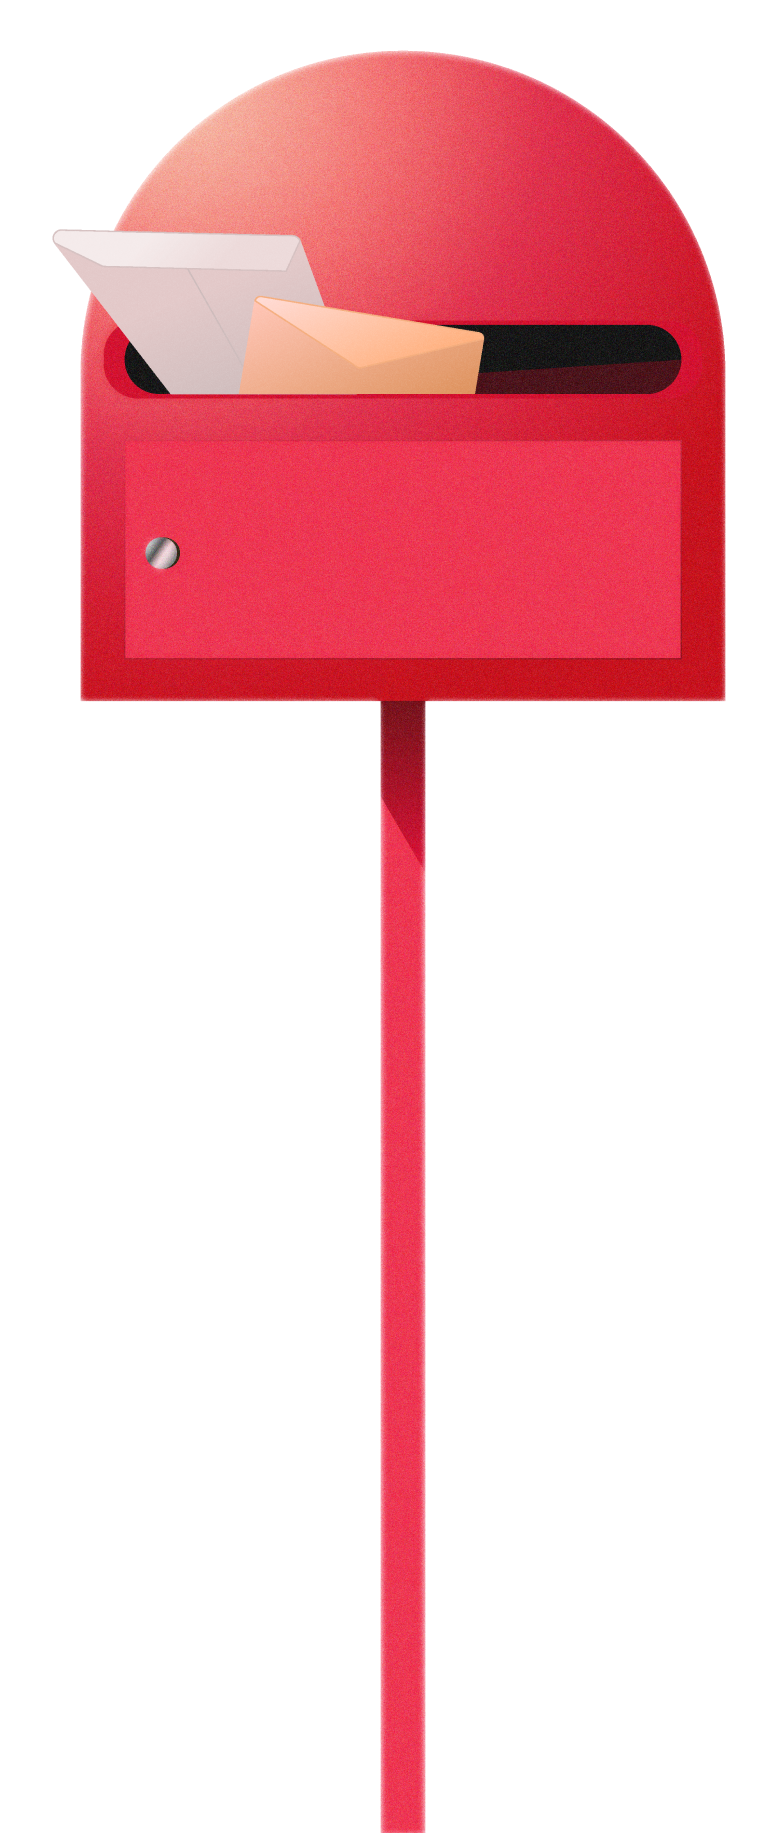
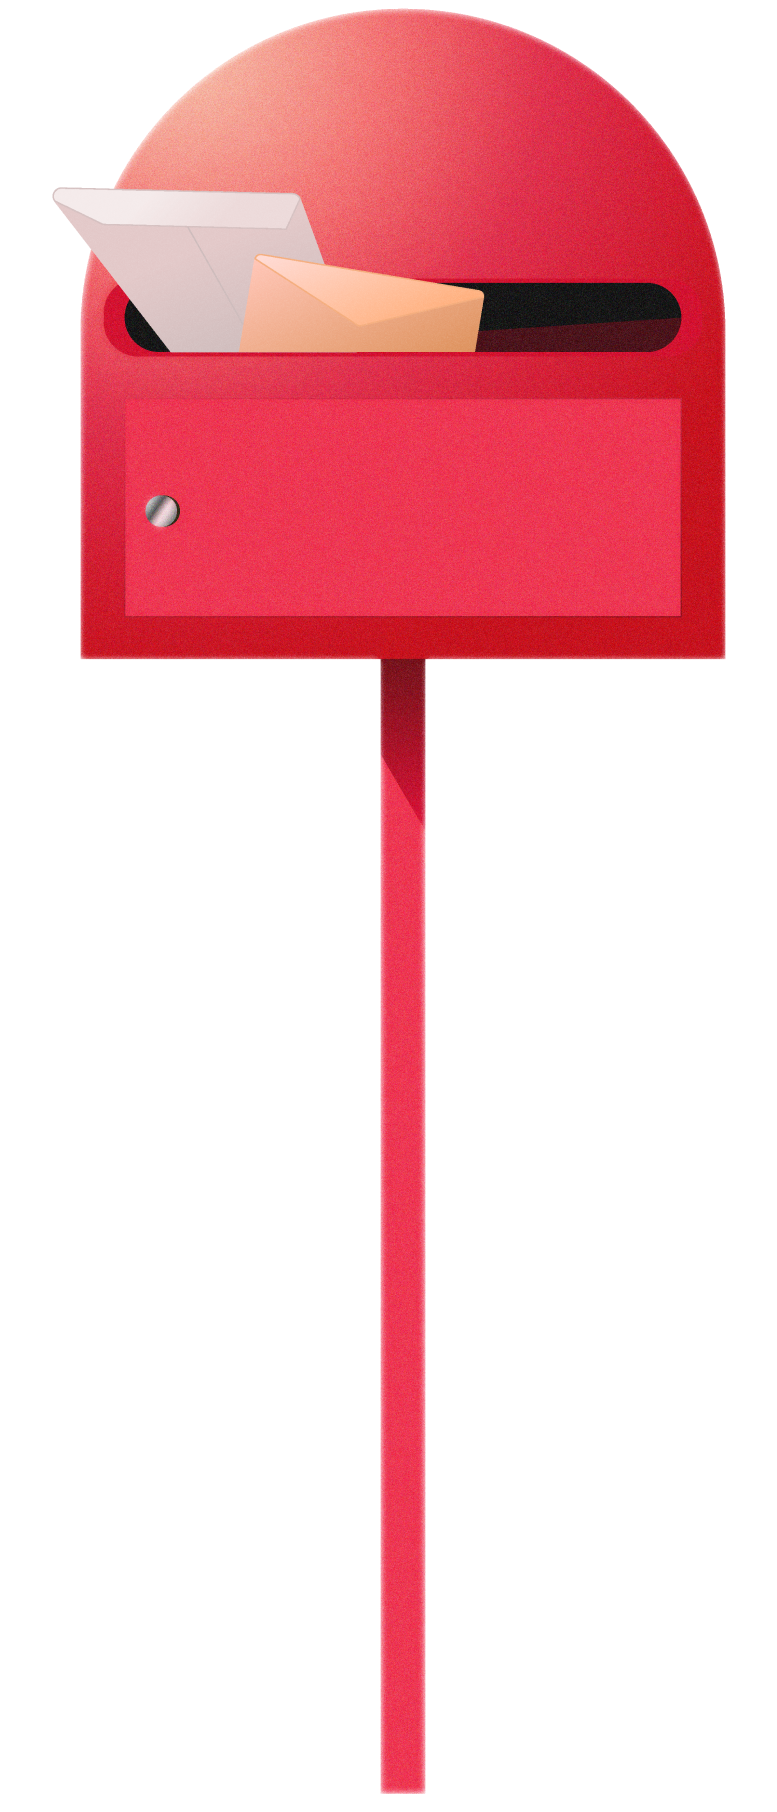
:sparkles: Feat: 다른이가 방문하는 우체통 화면
feat: 다른이가 방문하는 우체통 화면

Changed region(s): [[0.0618, 0.0, 0.9575, 0.3091], [0.0927, 0.34, 0.9266, 0.4945], [0.4633, 0.989, 0.556, 1.0]]

diff --git a/src/pages/PostBox/style.jsx b/src/pages/PostBox/style.jsx
@@ -1,4 +1,4 @@
-import { styled } from "styled-components";
+import { styled, css } from "styled-components";
 import Bg from "../../assets/img/background-1.png";
 import Lbox from "../../assets/img/letterbox-full.png";
 import btnYellow from "../../assets/img/btnYellow.png";
@@ -6,6 +6,7 @@ import btnWhite from "../../assets/img/btnWhite.png";
 import btnIdpw from "../../assets/img/btnIDPW.png";
 
 export const Root = styled.div`
+  position: relative;
   margin: 0 auto;
   max-width: 430px;
   min-height: 100vh;
@@ -20,7 +21,7 @@ export const Root = styled.div`
 
 export const LogoImage = styled.img`
   width: 16%;
-  margin: 90px auto 48px auto;
+  margin: 5rem auto 48px auto;
 `;
 export const Title = styled.div`
   display: flex;
@@ -37,9 +38,13 @@ export const Title = styled.div`
 `;
 
 export const LetterBox = styled.div`
+  position: absolute;
+
   margin-top: 1.5rem;
-  width: 80%;
-  height: 80vh;
+  transform: translateY(4rem);
+  width: 70%;
+  min-height: 40rem;
+
   background-image: url(${Lbox});
   background-size: 100%;
   background-repeat: no-repeat;
@@ -47,4 +52,37 @@ export const LetterBox = styled.div`
   flex-direction: column;
   align-items: center;
   justify-content: center;
+`;
+
+export const MindLetterBtn = styled.div`
+  border-radius: 78px;
+  padding: 0.5rem 1rem;
+  text-align: center;
+  border: 1px solid #373737;
+  // ColorCode Props
+  ${({ colorCode }) => css`
+    background-color: ${colorCode}; // Use ${colorCode} to set the background color
+  `}
+
+  box-shadow: 0px 4px 4px 0px rgba(0, 0, 0, 0.25);
+  padding-top: 1rem;
+  padding-bottom: 1rem;
+
+  width: 20rem;
+  color: #000;
+  text-align: center;
+  font-family: "Esamanru";
+  font-size: 18px;
+  font-style: normal;
+  font-weight: 300;
+  line-height: normal;
+  border: none;
+`;
+export const BtnContainer = styled.div`
+  display: flex;
+  flex-direction: column;
+  align-items: center;
+  margin-top: 24rem;
+  z-index: 1;
+  gap: 1rem;
 `;

diff --git a/src/pages/PostBox/PostBox.jsx b/src/pages/PostBox/PostBox.jsx
@@ -34,6 +34,14 @@ function PostBox() {
         <br />
         편지 한 장 놓고 가실래요?
         <S.LetterBox></S.LetterBox>
+        {/* yellow button  */}
+        <S.BtnContainer>
+          <S.MindLetterBtn colorCode={"#ffd84d"}>편지 쓰러가기</S.MindLetterBtn>
+          <S.MindLetterBtn colorCode={"#FFFCF5"}>
+            내 우체통 만들기
+          </S.MindLetterBtn>
+        </S.BtnContainer>
+        {/* white button  */}
       </S.Title>
     </S.Root>
   );
